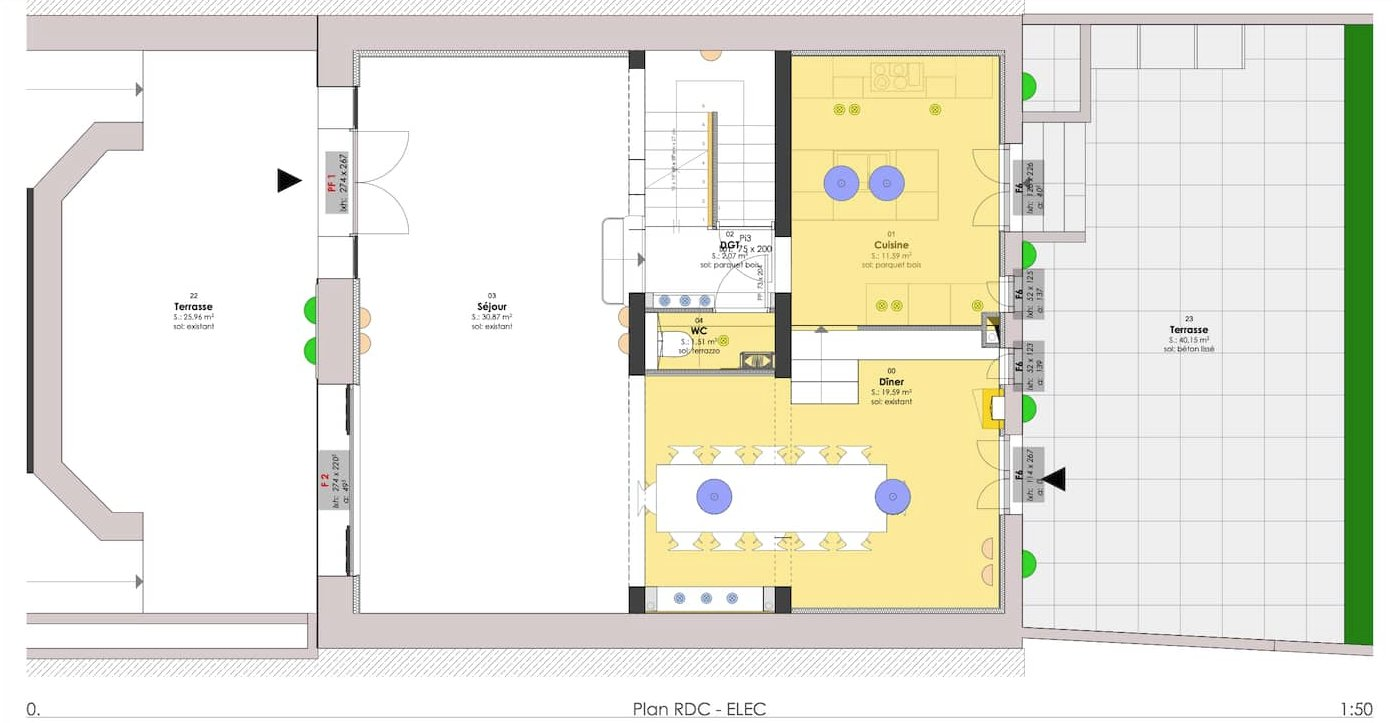
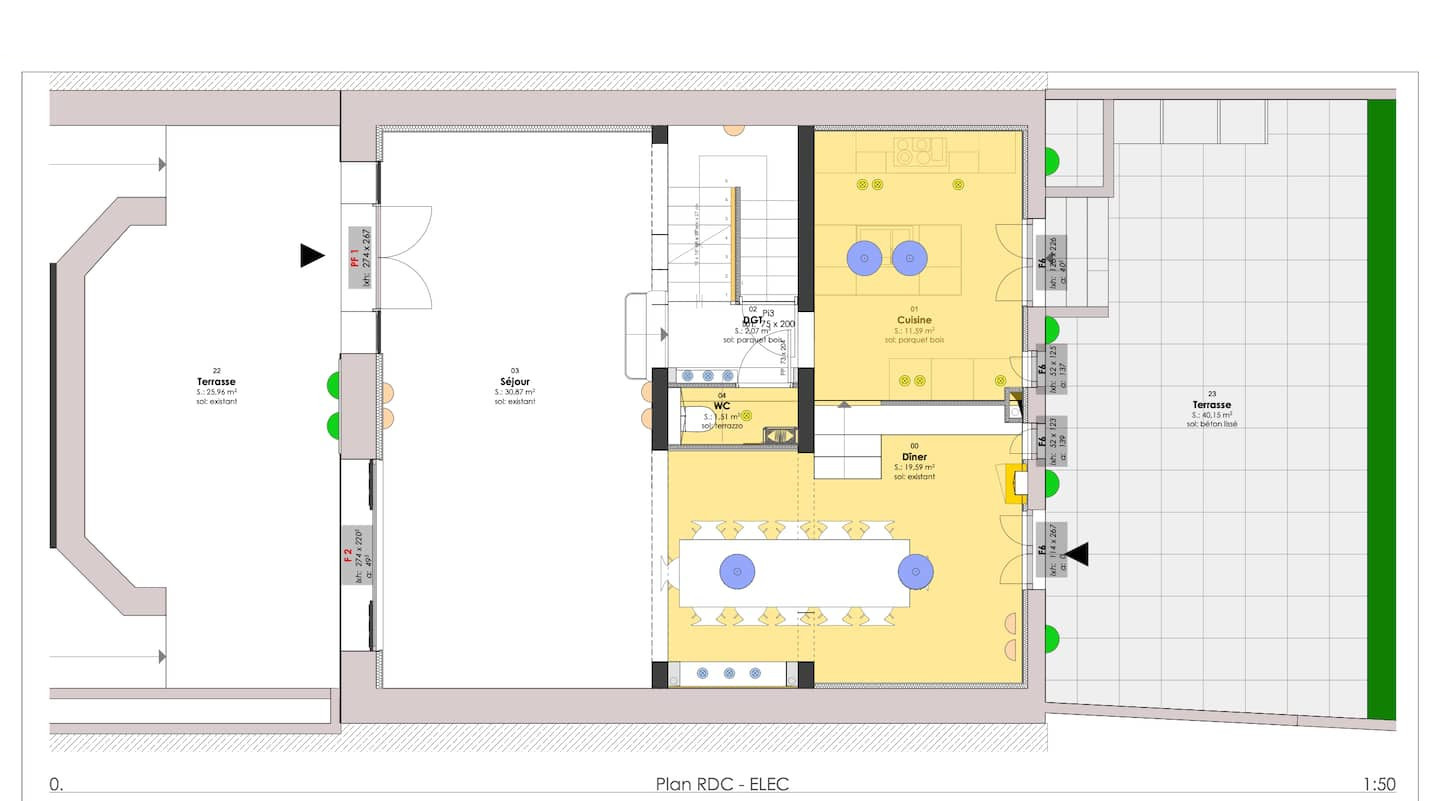
Add modal for plan's pictures

diff --git a/components/plans/plansFloor.js b/components/plans/plansFloor.js
@@ -1,33 +1,28 @@
-import { useState } from "react";
+import Image from "next/image";
 import PropTypes from "prop-types";
+import Zoom from "react-medium-image-zoom";
+import "react-medium-image-zoom/dist/styles.css";
 
 import { withTranslation } from "../../i18n";
-import classNames from "classnames";
 
 function PlansFloor({ activeState: [active], t }) {
+  const floorNames = ["Ground", "First", "Second"];
   return (
     <>
       <h1 className="border-b-2 border-red-900 font-bold mb-8 mt-8 text-2xl">
         {t("floor-title")}
       </h1>
-      {[
-        ["bg-planSecond", 2],
-        ["bg-planFirst", 1],
-        ["bg-planGround", 0],
-      ].map(([bgClassName, floorNumber]) => {
-        if (active === floorNumber) {
-          return (
-            <div
-              className={classNames(
-                "bg-contain bg-top bg-no-repeat col-span-2 content h-xl w-xl",
-                active === floorNumber ? bgClassName : ""
-              )}
-            ></div>
-          );
-        } else {
-          return null;
-        }
-      })}
+      <div className="col-span-2 content">
+        <Zoom>
+          <Image
+            alt={`${floorNames[active]} floor plan`}
+            src={`/images/plan-${floorNames[active].toLowerCase()}-floor.jpg`}
+            width={1440}
+            height={1018}
+            responsive
+          />
+        </Zoom>
+      </div>
     </>
   );
 }
